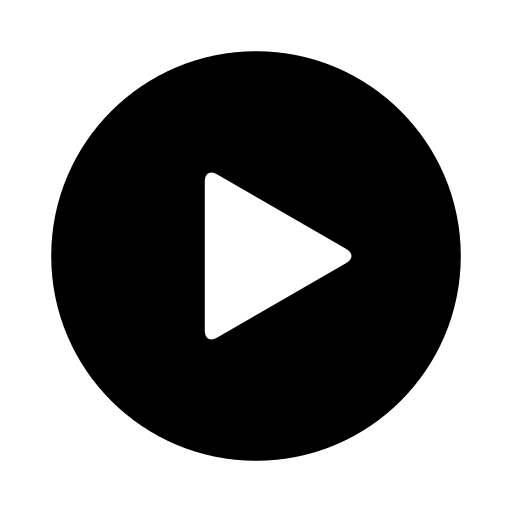
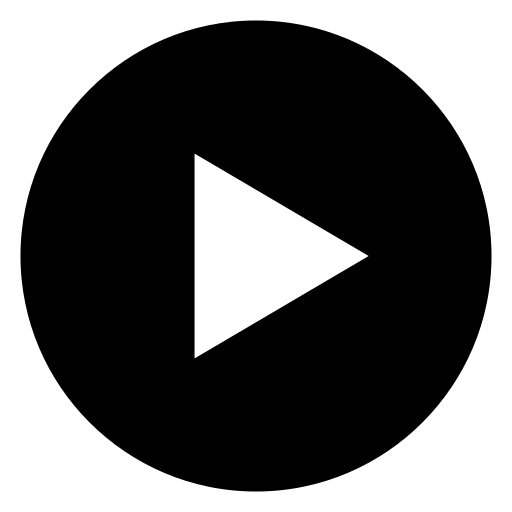
Simulation is repeatable with no known bugs

diff --git a/js/physics/kinematics-simulator.js b/js/physics/kinematics-simulator.js
@@ -26,9 +26,38 @@ function deltaTime()
     return d
 }
 
+const playButton = document.getElementById("play-sim-button")
+
+let firstPlay = true
+let inAnim = false
+let paused = false
+
+function updateButton()
+{
+    if (firstPlay)
+    {
+       playButton.dataset.state = "play"
+    } else if(inAnim) {
+        if (paused) 
+            playButton.dataset.state = "play"
+        else 
+            playButton.dataset.state = "paused"
+    } else {paused
+        playButton.dataset.state = "replay"
+    }
+}
+
+function togglePause()
+{
+    paused = !paused
+    updateButton()
+}
+
+updateButton()
+
 // Acceleration Sim
+let sims = {};
 (() => {
-    const playButton = document.getElementById("play-sim-button")
 
     const accLabel = document.getElementById("acc-sim-acc-label")
     const velLabel = document.getElementById("acc-sim-vel-label")
@@ -41,7 +70,6 @@ function deltaTime()
     let initialVelocity = 0
     let acceleration = 2
     let targetPos = 10
-
     let pos = initialPos
     let velocity = initialVelocity
 
@@ -52,15 +80,20 @@ function deltaTime()
         posLabel.innerHTML = digits(pos, 2)
     }
 
-    let startTime
+    let elaspsedTime
 
     function update()
     {
         let dt = deltaTime()
+        if (paused) {
+            requestAnimationFrame(update)
+            return
+        }
 
-        let t = (new Date().getTime()-startTime)/1000
-        pos = Math.min(changeX(initialVelocity, acceleration, t), targetPos)
-        velocity = getVel(initialVelocity, acceleration, t)
+        elaspsedTime += dt
+
+        pos = Math.min(changeX(initialVelocity, acceleration, elaspsedTime), targetPos)
+        velocity = getVel(initialVelocity, acceleration, elaspsedTime)
 
         updateVars()
         let alpha = Math.min(pos / targetPos, 1)
@@ -69,11 +102,25 @@ function deltaTime()
 
         if (alpha < 1)
             requestAnimationFrame(update)
+        else  {
+            inAnim = false
+            updateButton()
+        }
     }
 
-    playButton.onclick = () => {
-        console.log("play")
-        startTime = new Date().getTime()
+    sims.acceleration = () => {
+        elaspsedTime = 0
         update()
     }
 })()
+
+playButton.onclick = () => {
+    if (!inAnim) {
+        inAnim = true
+        firstPlay = false
+        updateButton()
+        sims.acceleration()
+    } else {
+        togglePause()
+    }
+}

diff --git a/scss/physics/kinematics-simulator.scss b/scss/physics/kinematics-simulator.scss
@@ -19,7 +19,7 @@ $container-width: 60vw;
 
 }
 
-$play-button-size: 10vh;
+$play-button-size: 7vh;
 #play-sim-button {
     background-image: url("../../img/play-button.png");
     background-position: center;
@@ -32,11 +32,19 @@ $play-button-size: 10vh;
     position: absolute;
     width: $play-button-size;
     height: $play-button-size;
-    // left: calc(100% - $play-button-size);
+    left: 1vh;
+    top: 1vh;
 
-    transition: all .5s;
+    transition: scale .5s;
     &:hover {
         scale: 1.1;
+    }
+
+    &[data-state="paused"] {
+        background-image: url("../../img/circled-pause.png");
+    }
+    &[data-state="replay"] {
+        background-image: url("../../img/replay.png");
     }
 }
 

diff --git a/css/physics/kinematics-simulator.css b/css/physics/kinematics-simulator.css
@@ -50,12 +50,20 @@ body::-webkit-scrollbar {
   background-size: cover;
   filter: opacity(0.377);
   position: absolute;
-  width: 10vh;
-  height: 10vh;
-  transition: all 0.5s;
+  width: 7vh;
+  height: 7vh;
+  left: 1vh;
+  top: 1vh;
+  transition: scale 0.5s;
 }
 #play-sim-button:hover {
   scale: 1.1;
+}
+#play-sim-button[data-state=paused] {
+  background-image: url("../../img/circled-pause.png");
+}
+#play-sim-button[data-state=replay] {
+  background-image: url("../../img/replay.png");
 }
 
 .label-container {
